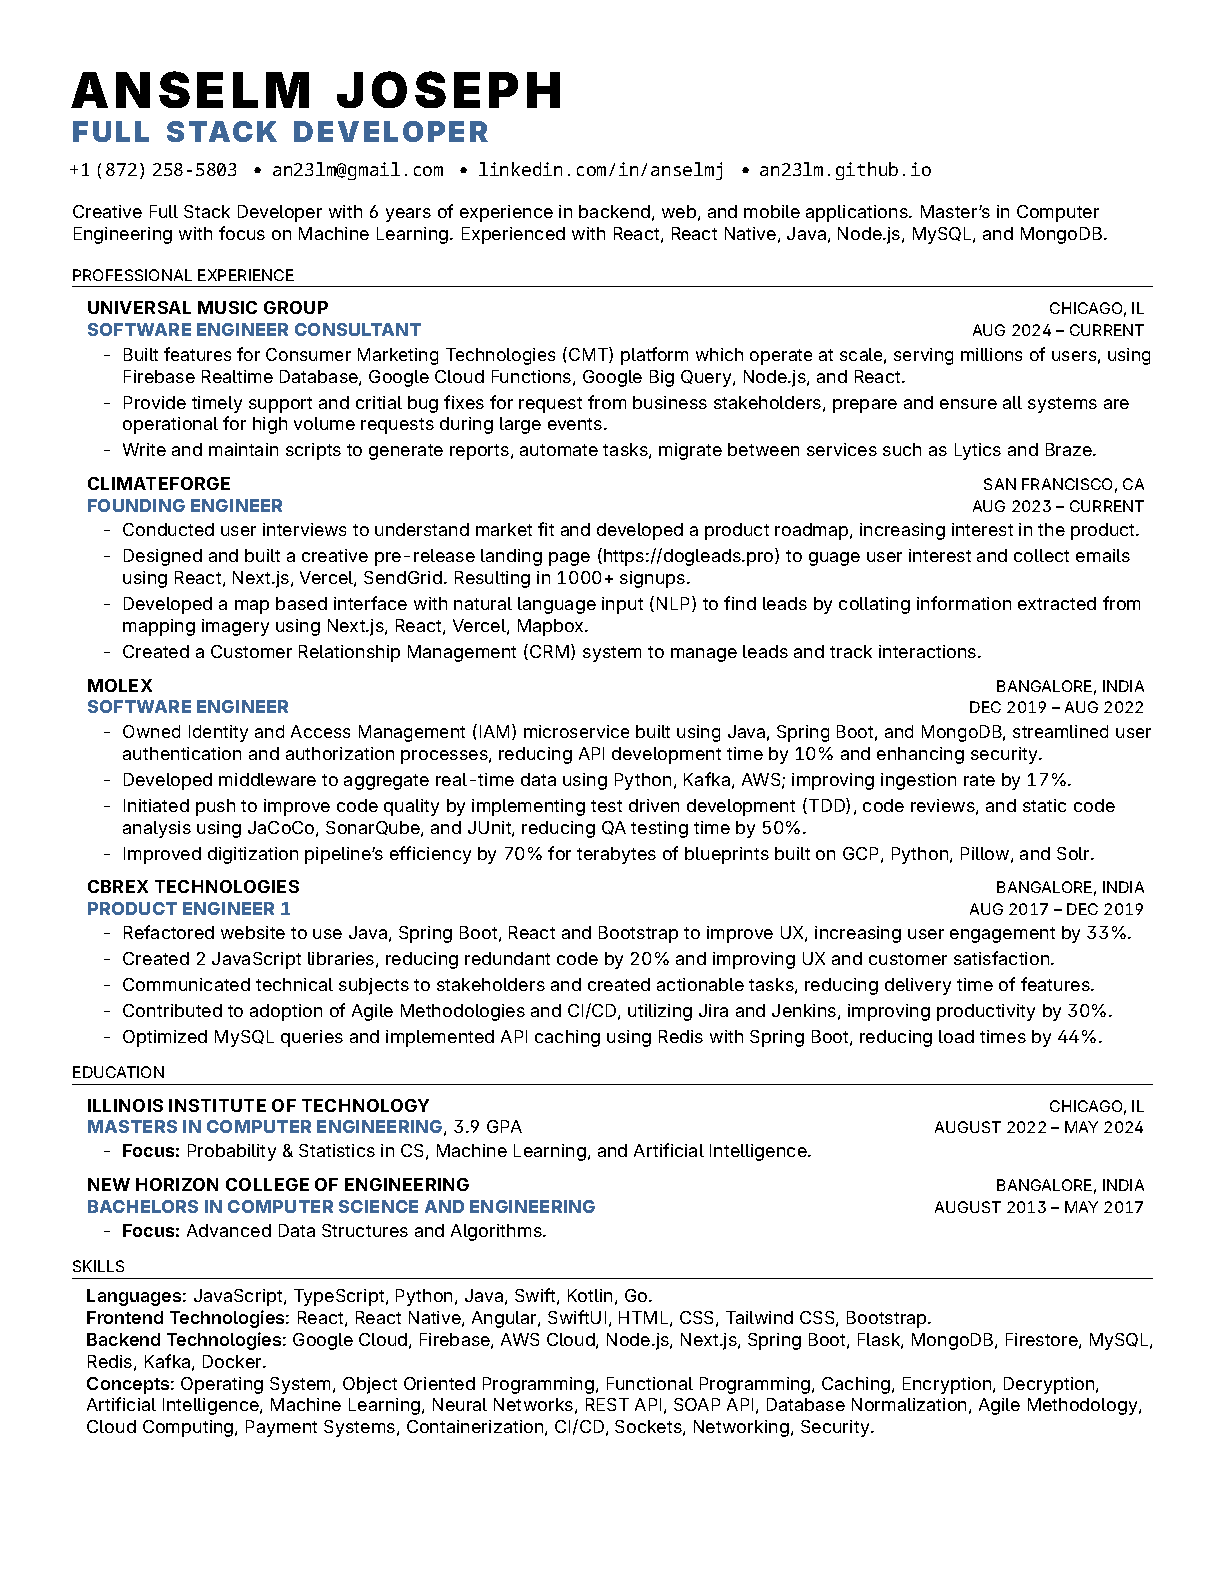
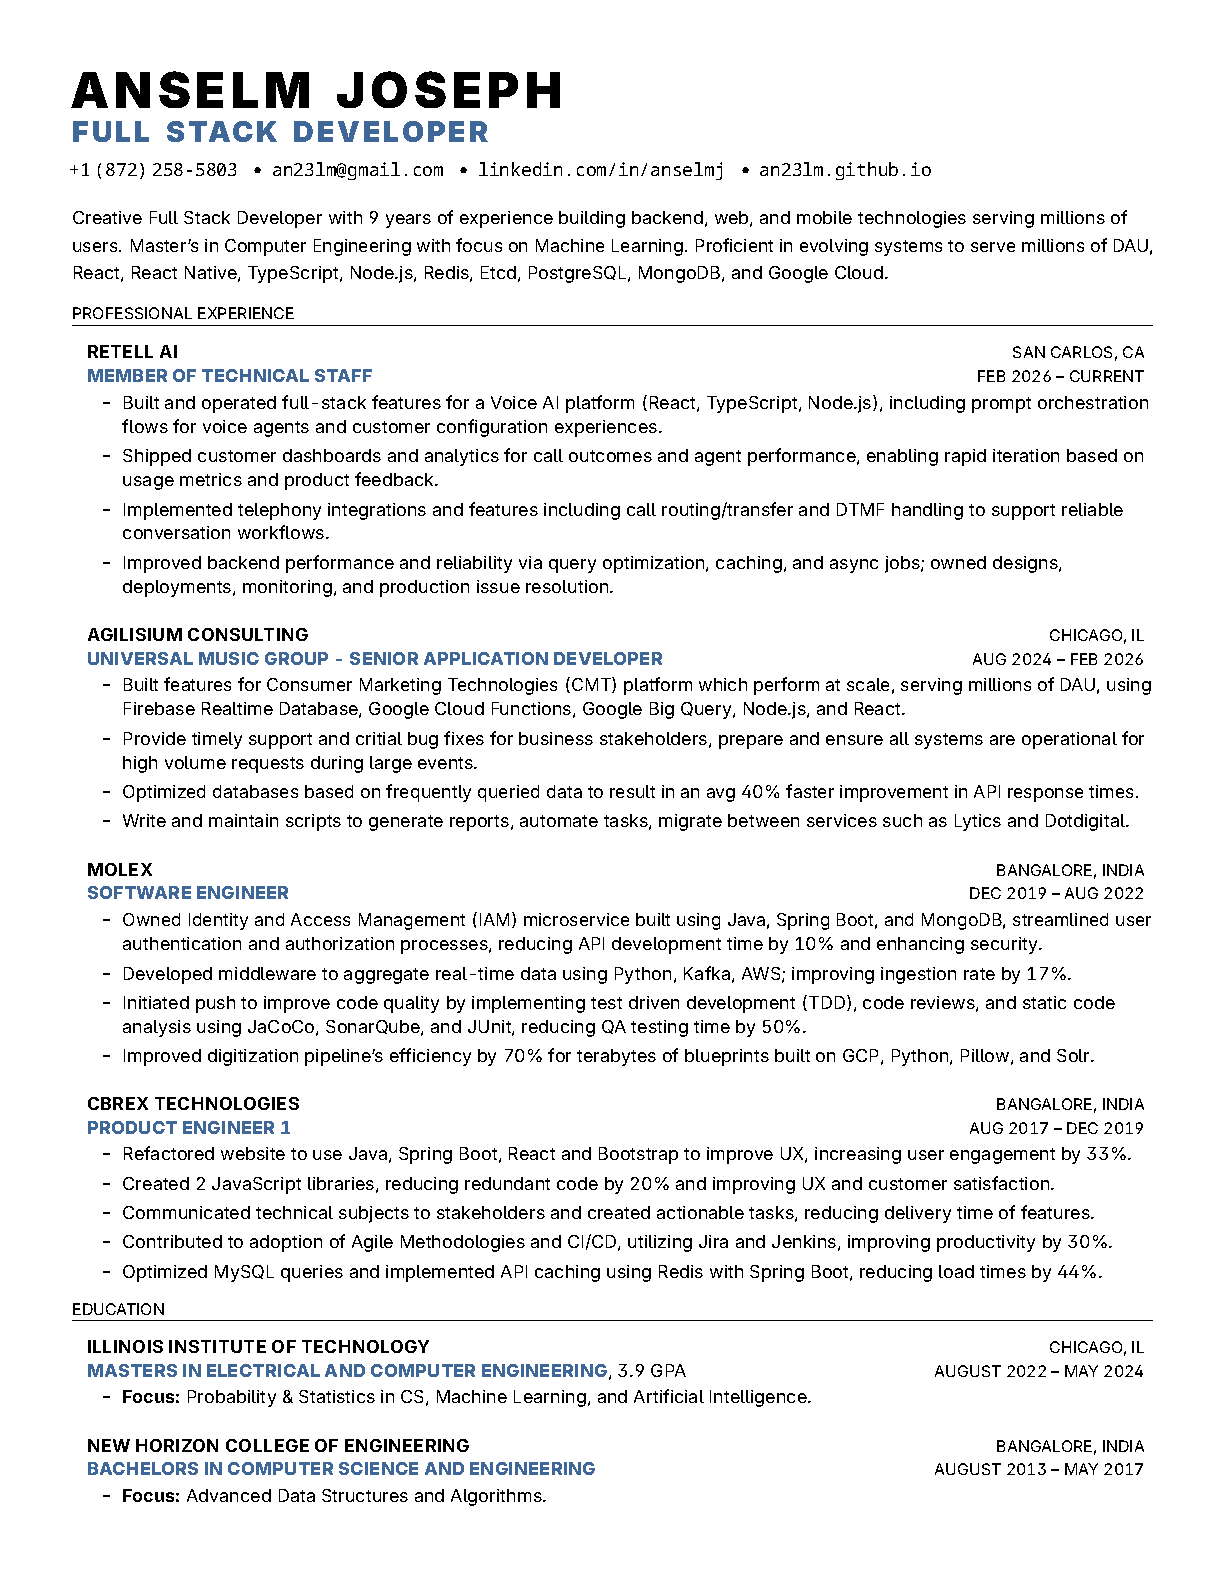
added retell and removed skills

Changed region(s): [[0.0621, 0.1237, 0.9314, 0.959]]

diff --git a/components/experience.tex b/components/experience.tex
@@ -2,24 +2,25 @@
 \section{PROFESSIONAL EXPERIENCE}\vspace*{-4pt}
 
 \resumeSubHeadingListStart
-
+ 
     \resumeSubheading
-    {Universal Music Group}{Chicago, IL}
-    {Software Engineer Consultant}{}{Aug 2024 -- Current}
+    {Retell AI}{San Carlos, CA}
+    {Member of Technical Staff}{}{Feb 2026 -- current}
     \resumeItemListStart
-        \resumeItem{Built features for Consumer Marketing Technologies (CMT) platform which operate at scale, serving millions of users, using Firebase Realtime Database, Google Cloud Functions, Google Big Query, Node.js, and React.}
-        \resumeItem{Provide timely support and critial bug fixes for request from business stakeholders, prepare and ensure all systems are operational for high volume requests during large events.}
-        \resumeItem{Write and maintain scripts to generate reports, automate tasks, migrate between services such as Lytics and Braze.}
+        \resumeItem{Built and operated full-stack features for a Voice AI platform (React, TypeScript, Node.js), including prompt orchestration flows for voice agents and customer configuration experiences.}
+        \resumeItem{Shipped customer dashboards and analytics for call outcomes and agent performance, enabling rapid iteration based on usage metrics and product feedback.}
+        \resumeItem{Implemented telephony integrations and features including call routing/transfer and DTMF handling to support reliable conversation workflows.}
+        \resumeItem{Improved backend performance and reliability via query optimization, caching, and async jobs; owned designs, deployments, monitoring, and production issue resolution.}
     \resumeItemListEnd
 
     \resumeSubheading
-    {ClimateForge}{San Francisco, CA}
-    {Founding Engineer}{}{Aug 2023 -- Current}
+    {Agilisium Consulting}{Chicago, IL}
+    {Universal Music Group - Senior Application Developer}{}{Aug 2024 -- Feb 2026}
     \resumeItemListStart
-        \resumeItem{Conducted user interviews to understand market fit and developed a product roadmap, increasing interest in the product.}
-        \resumeItem{Designed and built a creative pre-release landing page (https://dogleads.pro) to guage user interest and collect emails using React, Next.js, Vercel, SendGrid. Resulting in 1000+ signups.}
-        \resumeItem{Developed a map based interface with natural language input (NLP) to find leads by collating information extracted from mapping imagery using Next.js, React, Vercel, Mapbox.}
-        \resumeItem{Created a Customer Relationship Management (CRM) system to manage leads and track interactions.}
+        \resumeItem{Built features for Consumer Marketing Technologies (CMT) platform which perform at scale, serving millions of DAU, using Firebase Realtime Database, Google Cloud Functions, Google Big Query, Node.js, and React.}
+        \resumeItem{Provide timely support and critical bug fixes for business stakeholders, prepare and ensure all systems are operational for high volume requests during large events.}
+        \resumeItem{Optimized databases based on frequently queried data to result in an avg 40\% faster improvement in API response times.}
+        \resumeItem{Write and maintain scripts to generate reports, automate tasks, migrate between services such as Lytics and Dotdigital.}
     \resumeItemListEnd
 
     \resumeSubheading
@@ -31,7 +32,7 @@
         \resumeItem{Initiated push to improve code quality by implementing test driven development (TDD), code reviews, and static code analysis using JaCoCo, SonarQube, and JUnit, reducing QA testing time by 50\%.}
         \resumeItem{Improved digitization pipeline's efficiency by 70\% for terabytes of blueprints built on GCP, Python, Pillow, and Solr.}
     \resumeItemListEnd
-    
+
     \resumeSubheading
     {CBREX Technologies}{Bangalore, India}
     {Product Engineer 1}{}{Aug 2017 -- Dec 2019}

diff --git a/components/skills.tex b/components/skills.tex
@@ -5,6 +5,6 @@
         \fwSemiBold{Languages}{: JavaScript, TypeScript, Python, Java, Swift, Kotlin, Go.} \\
 		\fwSemiBold{Frontend Technologies}{: React, React Native, Angular, SwiftUI, HTML, CSS, Tailwind CSS, Bootstrap.} \\
 		\fwSemiBold{Backend Technologies}{: Google Cloud, Firebase, AWS Cloud, Node.js, Next.js, Spring Boot, Flask, MongoDB, Firestore, MySQL, Redis, Kafka, Docker.} \\
-		\fwSemiBold{Concepts}{: Operating System, Object Oriented Programming, Functional Programming, Caching, Encryption, Decryption, Artificial Intelligence, Machine Learning, Neural Networks, REST API, SOAP API, Database Normalization, Agile Methodology, Cloud Computing, Payment Systems, Containerization, CI/CD, Sockets, Networking, Security.} \\
+		\fwSemiBold{Concepts}{: Distributed Systems, Object Oriented Programming, Functional Programming, Caching, Artificial Intelligence, Machine Learning, Neural Networks, REST API, SOAP API, Database Normalization, Agile Methodology, Cloud Computing, Payment Systems, Containerization, CI/CD, Sockets, Networking, Security.} \\
 	}}
     \end{itemize}

diff --git a/components/heading.tex b/components/heading.tex
@@ -5,4 +5,4 @@
 \hspace{0.43em}•\hspace{0.43em}\href{mailto:an23lm+resumelead@gmail.com}{\small{\mono{an23lm@gmail.com}}}
 \hspace{0.43em}•\hspace{0.43em}\href{https://www.linkedin.com/in/anselmj}{\small{\mono{linkedin.com/in/anselmj}}}
 \hspace{0.43em}•\hspace{0.43em}\href{https://an23lm.github.io}{\small{\mono{an23lm.github.io}}} \\ \vspace{10pt}
-\small{Creative Full Stack Developer with 6 years of experience in backend, web, and mobile applications. Master's in Computer Engineering with focus on Machine Learning. Experienced with React, React Native, Java, Node.js, MySQL, and MongoDB.}
+{\small\setlength{\baselineskip}{14pt}Creative Full Stack Developer with 9 years of experience building backend, web, and mobile technologies serving millions of users. Master's in Computer Engineering with focus on Machine Learning. Proficient in evolving systems to serve millions of DAU, React, React Native, TypeScript, Node.js, Redis, Etcd, PostgreSQL, MongoDB, and Google Cloud.\par}

diff --git a/components/commands.tex b/components/commands.tex
@@ -10,12 +10,12 @@
 
 \newcommand{\resumeItem}[1]{
   \item\small{
-    {#1 \vspace{-2pt}}
+    {#1 \vspace{0pt}}
   }
 }
 
 \newcommand{\resumeSubheading}[5]{
-  \vspace{5pt}\item
+  \vspace{7pt}\item
     \begin{tabular*}{0.98\textwidth}[t]{l@{\extracolsep{\fill}}r}
     \small\fwBold{\MakeUppercase{\textls[20]{#1}}} & \footnotesize\MakeUppercase{#2} \\
       \small\textcolor{Accent}{\fwExtraBold{\MakeUppercase{\textls[20]{#3}}}}{\MakeUppercase{#4}} & \footnotesize\MakeUppercase{#5} \\

diff --git a/components/education.tex b/components/education.tex
@@ -5,7 +5,7 @@
 
         \resumeSubheading
         {Illinois Institute of Technology}{Chicago, IL}
-        {Masters in Computer Engineering}{, 3.9 GPA}{August 2022 -- May 2024}
+        {Masters in Electrical and Computer Engineering}{, 3.9 GPA}{August 2022 -- May 2024}
         \resumeItemListStart
             \resumeItem{\textbf{Focus:}  Probability \& Statistics in CS, Machine Learning, and Artificial Intelligence.}
         \resumeItemListEnd

diff --git a/resume.tex b/resume.tex
@@ -17,6 +17,6 @@
 
         % \input{components/projects}
 
-        \input{components/skills}
+        % \input{components/skills}
     
     \end{document}
